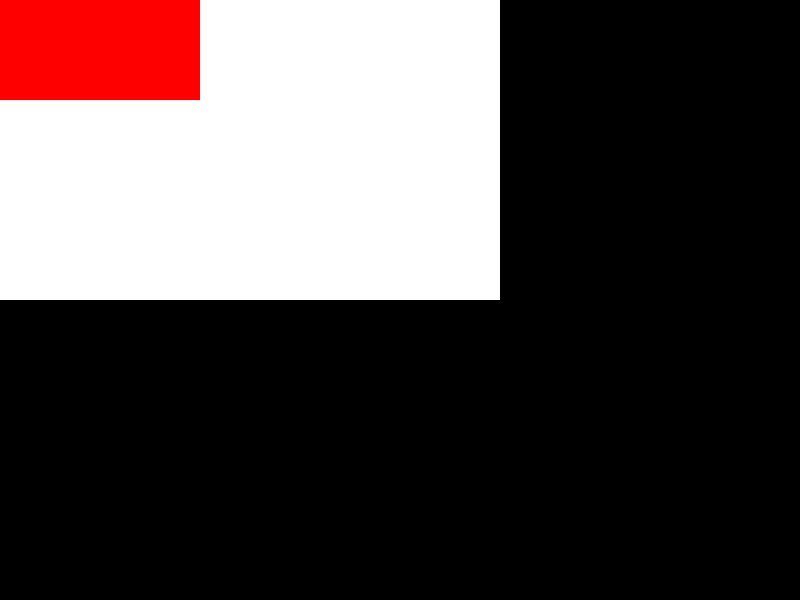
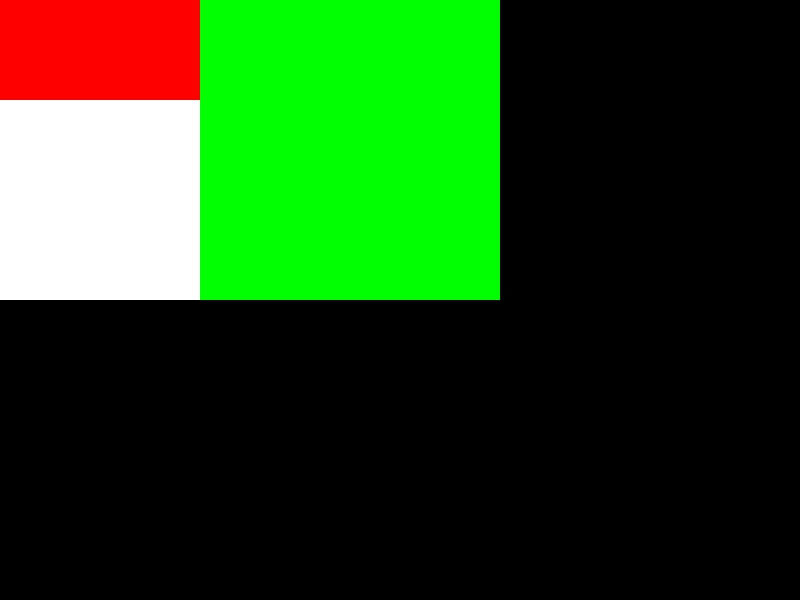
layout

Changed region(s): [[0.25, 0.0, 0.625, 0.51]]

diff --git a/PART4/winter/进阶课程/course-8-browser/toy/Render&Layout/layout/4/layout.js b/PART4/winter/进阶课程/course-8-browser/toy/Render&Layout/layout/4/layout.js
@@ -63,7 +63,7 @@ function layout(element) {
         mainSize = 'width';
         mainStart = 'left';
         mainEnd = 'right';
-        mainSign = +1;
+        mainSize = +1;
         mainBase = 0;
 
         crossSize = 'height';
@@ -74,7 +74,7 @@ function layout(element) {
         mainSize = 'width';
         mainStart = 'right';
         mainEnd = 'left';
-        mainSign = -1;
+        mainSize = -1;
         mainBase = style.width;
 
         crossSize = 'height';
@@ -85,7 +85,7 @@ function layout(element) {
         mainSize = 'height';
         mainStart = 'top';
         mainEnd = 'bottom';
-        mainSign = +1;
+        mainSize = +1;
         mainBase = 0;
 
         crossSize = 'width';
@@ -96,7 +96,7 @@ function layout(element) {
         mainSize = 'height';
         mainStart = 'bottom';
         mainEnd = 'top';
-        mainSign = -1;
+        mainSize = -1;
         mainBase = style.height;
 
         crossSize = 'width';
@@ -323,7 +323,7 @@ function layout(element) {
 
             var align = itemStyle.alignSelf || style.alignItems;
 
-            if (item === null) {
+            if (itemStyle[crossSize] === null) {
                 itemStyle[crossSize] = (align === 'stretch') ?
                     lineCrossSize : 0
             }
@@ -339,7 +339,7 @@ function layout(element) {
             }
 
             if (align === 'center') {
-                itemStyle[crossStart] = crossBase + crossSign * (lineCrossSize - itemStyle[crossSize]) / 2
+                itemStyle[crossStart] = crossBase + crossSign * (lineCrossSize - itemitemStyle[crossSize]) / 2
                 itemStyle[crossEnd] = itemStyle[crossStart] + crossSign * itemStyle[crossSize];
             }
 
@@ -352,7 +352,7 @@ function layout(element) {
         }
         crossBase += crossSign * (lineCrossSize + step);
     });
-     console.log('222',items) ;
+     console.log(items) ;
 
 }
 

diff --git a/PART4/winter/进阶课程/course-8-browser/toy/Render&Layout/render/2/parser.js b/PART4/winter/进阶课程/course-8-browser/toy/Render&Layout/render/2/parser.js
@@ -31,7 +31,7 @@ function match(element, selector) {
         var attr = element.attributes.filter(attr => attr.name === "id")[0];
         if (attr && attr.value === selector.replace("#", ""))
             return true;
-    } else if (selector.charAt(0) == "#"){
+    } else if (selector.charAt(0) == "."){
         var attr = element.attributes.filter(attr => attr.name === "class")[0];
         if (attr && attr.value === selector.replace(".", ""))
             return true;

diff --git a/PART4/winter/进阶课程/course-8-browser/toy/Render&Layout/layout/2/layout.js b/PART4/winter/进阶课程/course-8-browser/toy/Render&Layout/layout/2/layout.js
@@ -123,7 +123,7 @@ function layout(element) {
             var itemStyle = getStyle(item);
 
             if (itemStyle[mainSize] !== null || itemStyle[mainSize] !== (void 0))
-                elementStyle[mainSize] = elementStyle[mainSize] + itemStyle[mainSize]''
+                elementStyle[mainSize] = elementStyle[mainSize] + itemStyle[mainSize];
         }
         isAutoMainSize = true;
     }

diff --git a/PART4/winter/进阶课程/course-8-browser/toy/Render&Layout/layout/3/layout.js b/PART4/winter/进阶课程/course-8-browser/toy/Render&Layout/layout/3/layout.js
@@ -123,7 +123,7 @@ function layout(element) {
             var itemStyle = getStyle(item);
 
             if (itemStyle[mainSize] !== null || itemStyle[mainSize] !== (void 0))
-                elementStyle[mainSize] = elementStyle[mainSize] + itemStyle[mainSize]''
+                elementStyle[mainSize] = elementStyle[mainSize] + itemStyle[mainSize];
         }
         isAutoMainSize = true;
     }
